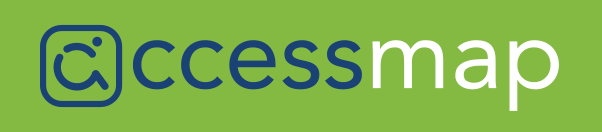
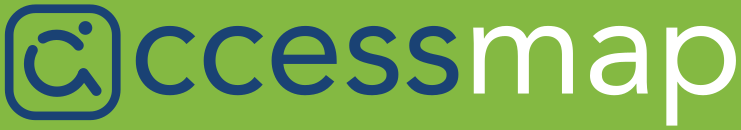
Tweaks to layout

Changed region(s): [[0.0, 0.0308, 1.0, 0.9846]]

diff --git a/public/stylesheets/style.css b/public/stylesheets/style.css
@@ -41,10 +41,6 @@ body {
   padding-bottom: 40px;
 }
 
-.buttonlist .fa > i {
-  font-size: 130%;
-}
-
 table img {
   width: 30px;
 }
@@ -64,8 +60,17 @@ h2 {
 }
 
 .navbar-brand {
-  padding-top: 0;
-  padding-bottom: 0;
+  padding: 0px;
+}
+
+.navbar-brand > img {
+  height: 100%;
+  padding: 5px;
+  width: auto;
+}
+
+.navbar .fa {
+  font-size: 130%;
 }
 
 .navbar-inverse .navbar-nav>li>a{
